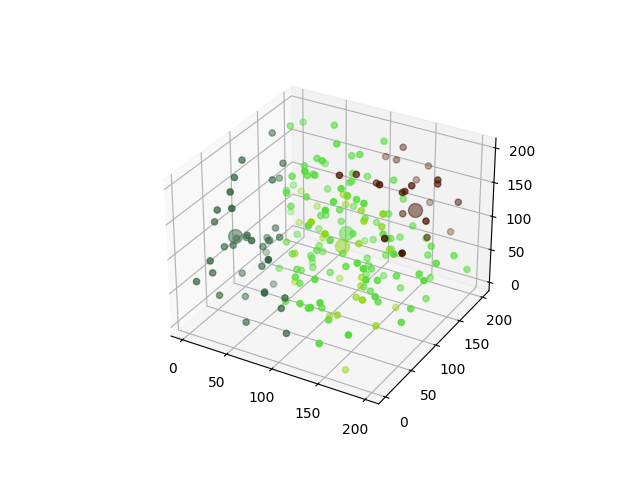
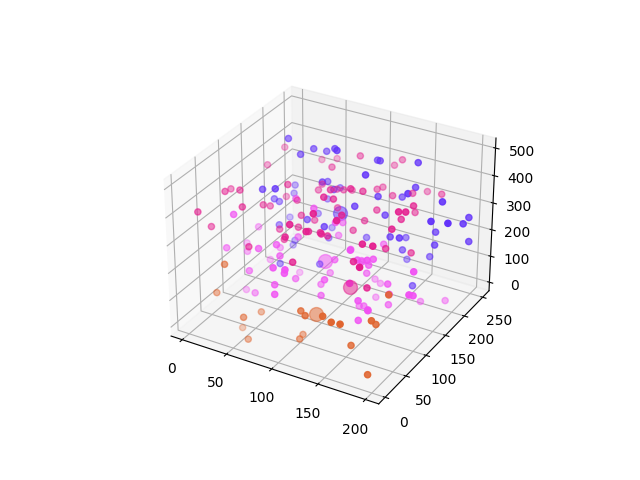
update

diff --git a/k-Means/kMeans.py b/k-Means/kMeans.py
@@ -5,20 +5,26 @@ import matplotlib.pyplot as plt
 from mpl_toolkits import mplot3d
 
 
-# This function receives the number of clusters k, the data points (it can have any dimension)
+# This function receives the number of clusters k, the data points (a list of tuples) and the number of iterations:
 def kMeans(k, data, iterations=1):
+    # Unzip a list of tuples returns other list of tuples where each element is a tuple with the values of the corresponding...
+    # ... index of the tuples in the previus list:
     unziped_data = list(zip(*data))
+    # Create random points to be the centroids:
     centroids = [(random.uniform(min(unziped_data[0]), max(unziped_data[0])), random.uniform(min(unziped_data[1]), max(unziped_data[1]))) for _ in range(k)]
-
+    # Do each interaction to calculate the groups and new centroids:
     for _ in range(iterations):
         new_centroids = centroids
         centroids, data_group_list = calcMeans(data, centroids)
+    # Returns the list of centroids and the list of group for each centroid:
     return new_centroids, data_group_list
 
     
 def calcMeans(data, centroids):
+    # The amount of group is equal the amount of centroids: 
     data_group_list = [[] for _ in range(len(centroids))]
 
+    # Associating each point in a group:
     for point in data:
         dist, centroid_index = -1, -1
         for i, centroid in enumerate(centroids):
@@ -27,8 +33,10 @@ def calcMeans(data, centroids):
                 centroid_index = i
         data_group_list[centroid_index].append(point)
 
+    # Updating the centroids:
     new_centroids = []
     for i, group in enumerate(data_group_list):
+        # The group must have at least one element:
         if len(group) > 0:
             new_x = 0
             new_y = 0
@@ -36,6 +44,7 @@ def calcMeans(data, centroids):
                 new_x += point[0]/len(group)
                 new_y += point[1]/len(group)
             new_centroids.append((new_x, new_y))
+        # If the group has no elements then the group centroid doesn't change:
         else:
             new_centroids.append(centroids[i])
 

diff --git a/k-Means/kMeans (N dimensions).py b/k-Means/kMeans (N dimensions).py
@@ -64,24 +64,22 @@ if __name__ == "__main__":
     for i, (x_c, y_c) in enumerate(centroids):
         hexadecimal = ["#"+''.join([random.choice('ABCDEF0123456789') for i in range(6)])]
         plt.scatter(x_c, y_c, c = hexadecimal, marker='o', s = 100, alpha = 0.5)
-        for (x, y) in data_group_list[i]:
-            plt.scatter(x, y, color = hexadecimal)
+        X, Y = zip(*data_group_list[i])
+        plt.scatter(X, Y, color = hexadecimal)
     plt.savefig("C:\\Users\\bruni\\OneDrive\\Documentos\\GitHub\\OTPA001I\\k-Means\\Exemplo01 (k-Means).png")
     plt.close()
 
     #Exemple02 (3d plot):
     X = [random.uniform(1, 200) for _ in range(200)]
-    Y = [random.uniform(1, 200) for _ in range(200)]
-    Z = [random.uniform(1, 200) for _ in range(200)]
+    Y = [random.uniform(1, 250) for _ in range(200)]
+    Z = [random.uniform(1, 500) for _ in range(200)]
     data = list(zip(X, Y, Z))
 
     centroids, data_group_list = kMeans(4, data, 1)
-    
     ax = plt.axes(projection = '3d')
     for i, (x_c, y_c, z_c) in enumerate(centroids):
         hexadecimal = ["#"+''.join([random.choice('ABCDEF0123456789') for i in range(6)])]
         ax.scatter3D(x_c, y_c, z_c, color = hexadecimal, marker='o', s = 100, alpha = 0.5)
-        # print(data_group_list[i])
         X, Y, Z = (zip(*data_group_list[i]))
         ax.scatter3D(X, Y, Z, color = hexadecimal)
     plt.savefig("C:\\Users\\bruni\\OneDrive\\Documentos\\GitHub\\OTPA001I\\k-Means\\Exemplo02 (k-Means).png")
